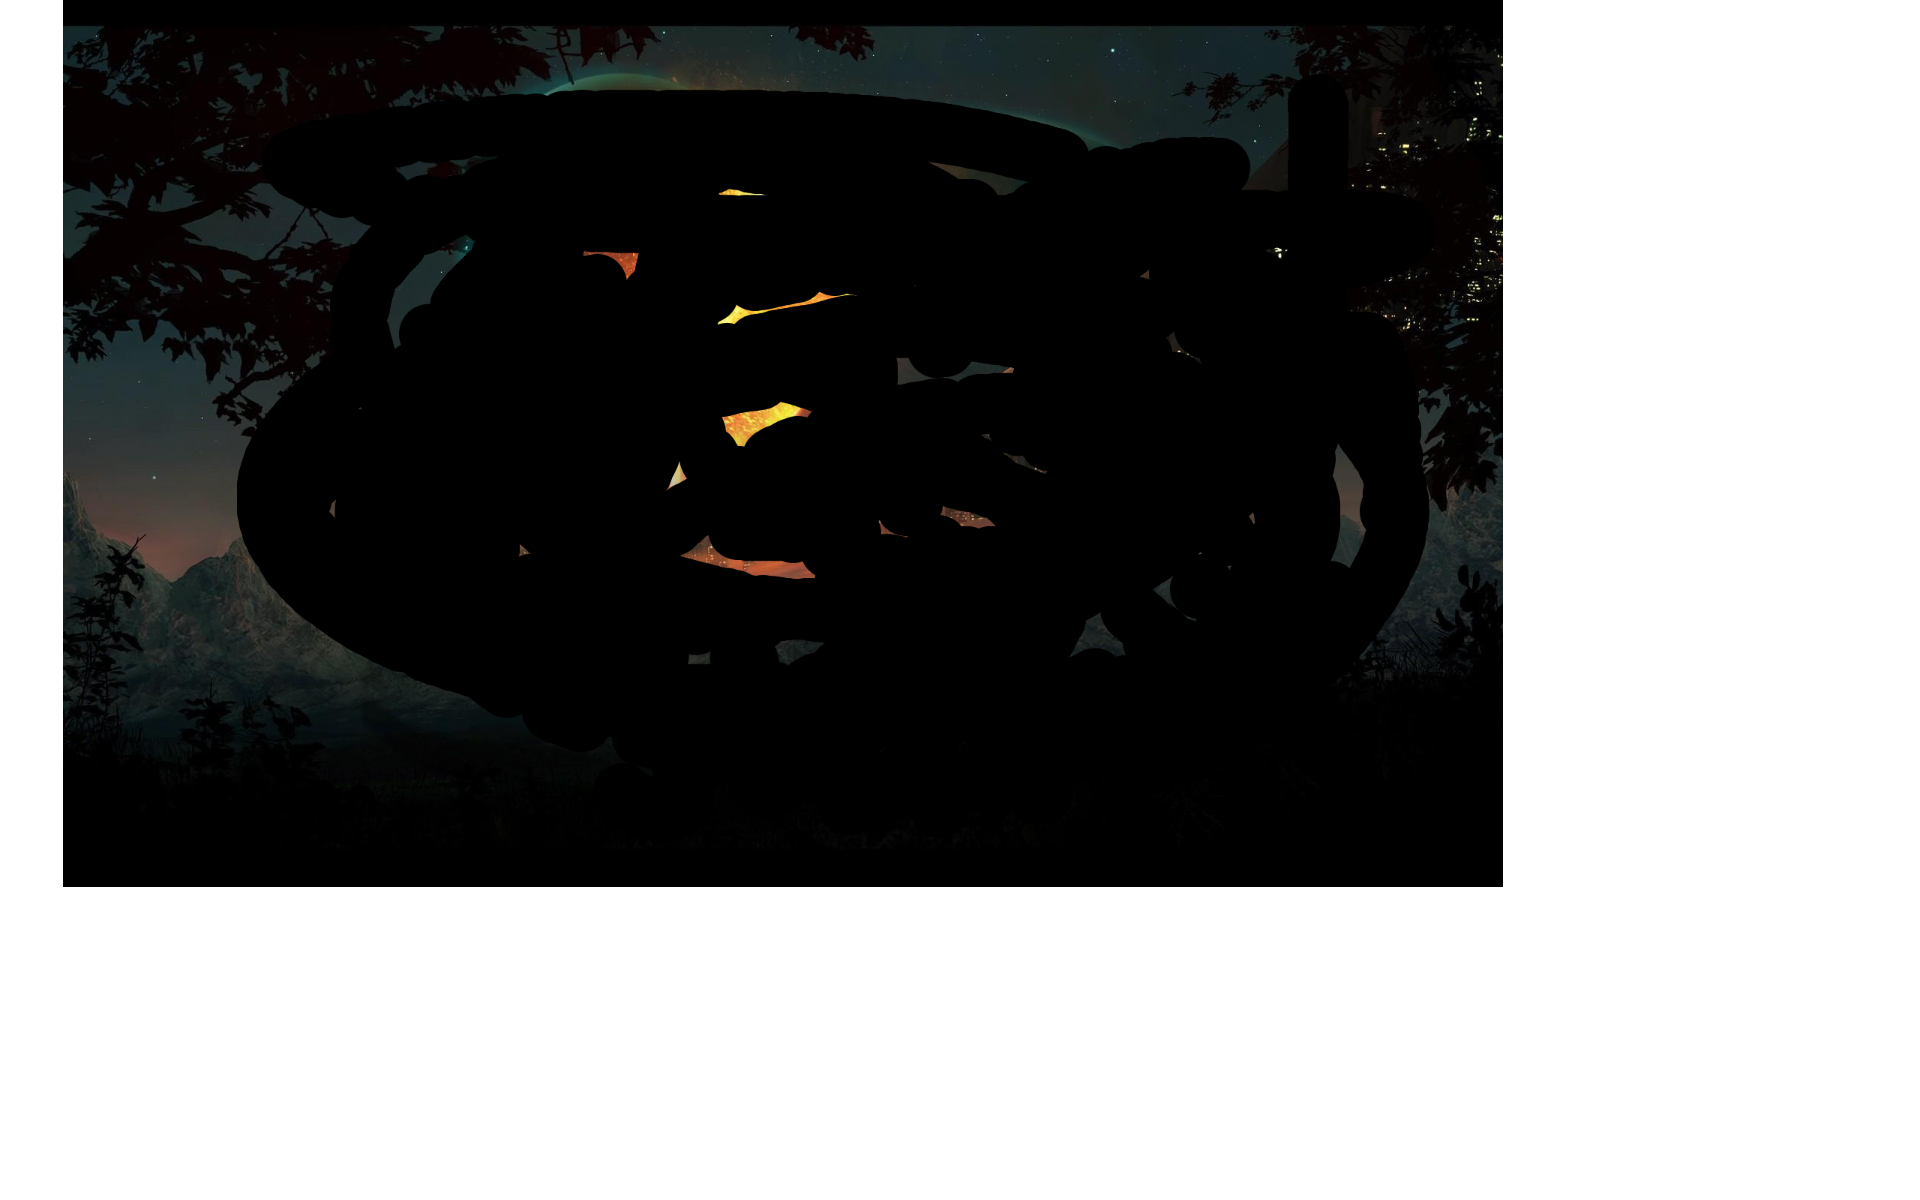
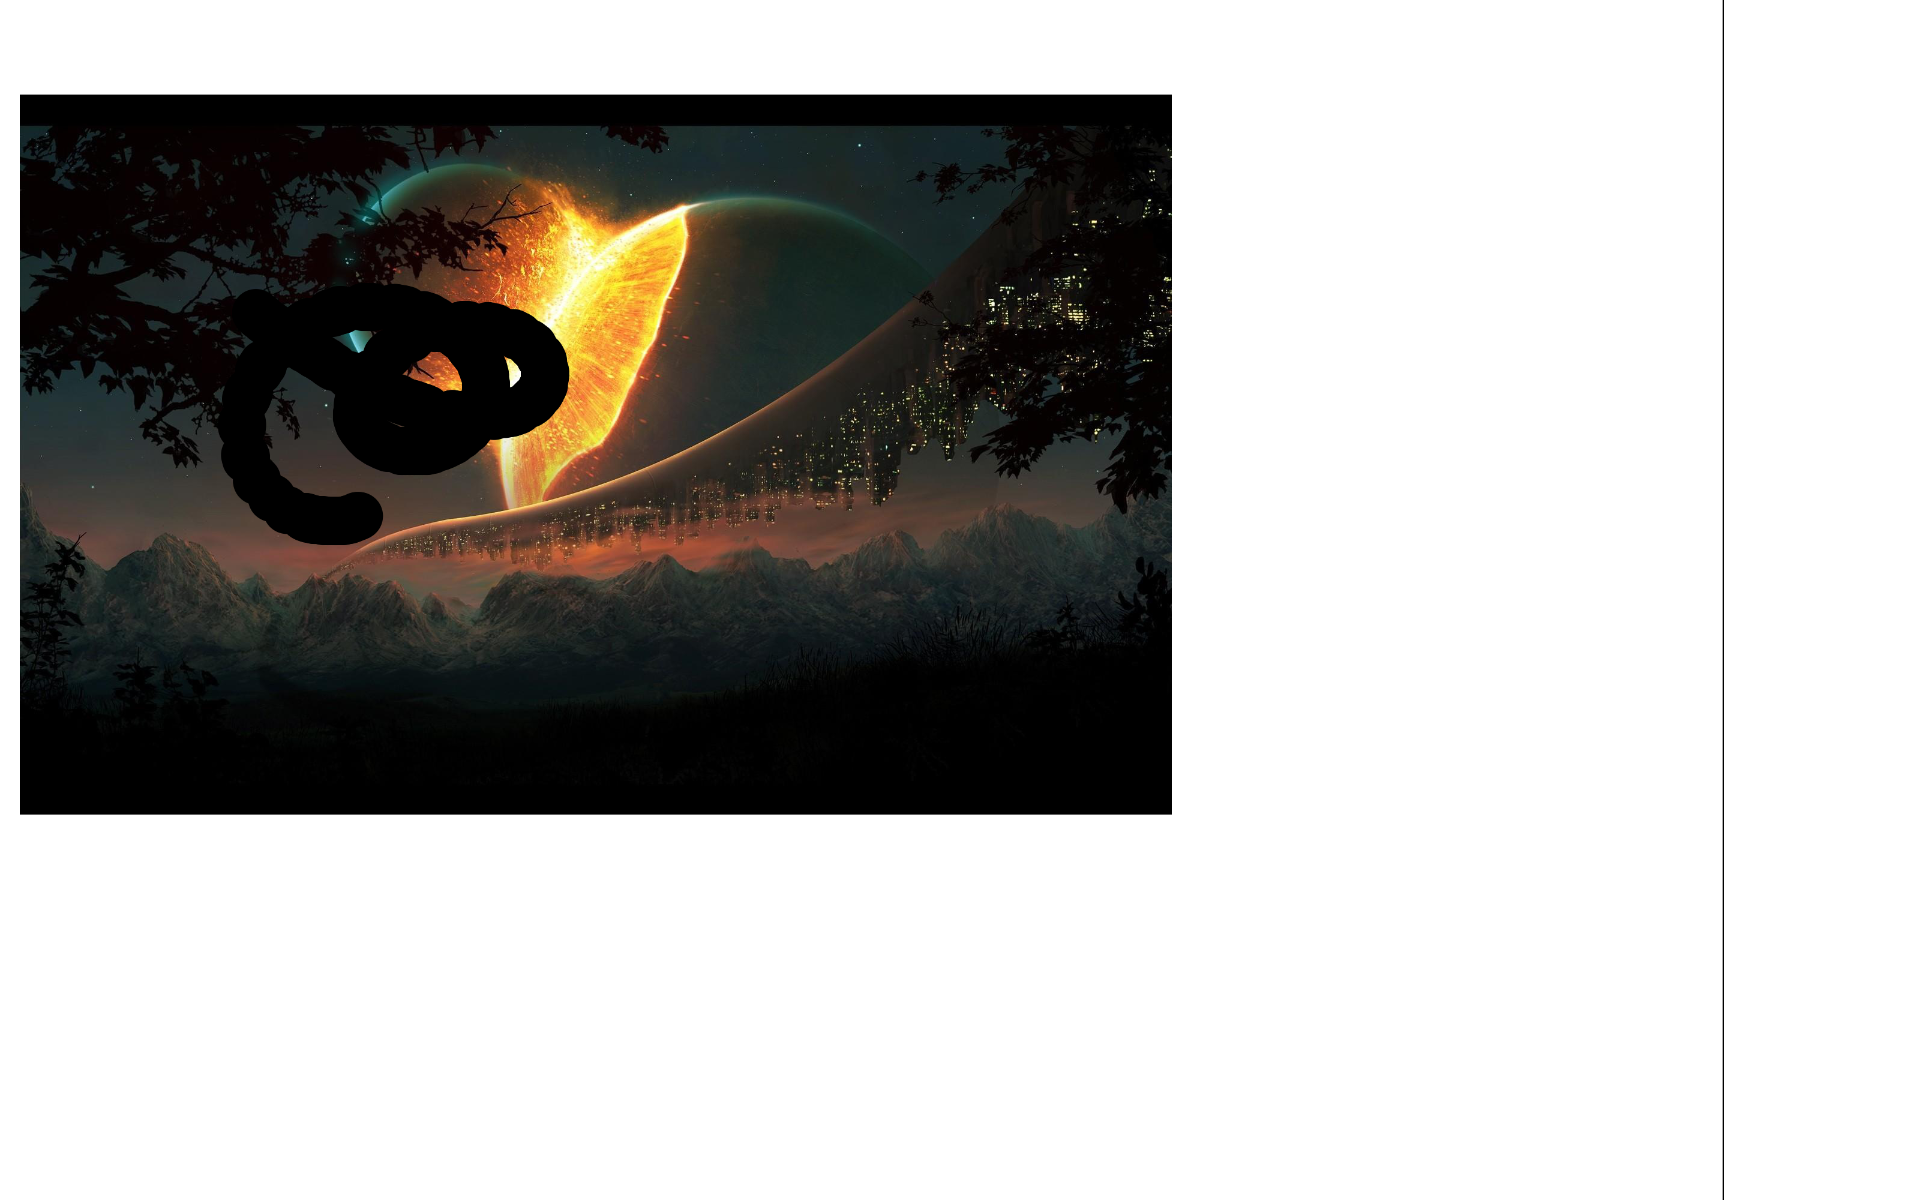
Changed Saving bounds

diff --git a/src/run/Main.java b/src/run/Main.java
@@ -417,7 +417,7 @@ public class Main extends Application {
     private void saveImage(Canvas canvas){
         WritableImage bounds = new WritableImage((int)imgWidth, (int)imgHeight);
         SnapshotParameters sp = new SnapshotParameters();
-        sp.setViewport(new Rectangle2D(0, 0, imgWidth, imgHeight));
+        sp.setViewport(new Rectangle2D(0 + 40, 0 + 80, imgWidth, imgHeight)); // hard-coded values 40 & 80 for x and y respectivly
         WritableImage snapshot = canvas.snapshot(sp, bounds);
         try{
             ImageIO.write(SwingFXUtils.fromFXImage(snapshot, null), "png", new File(System.getProperty("user.dir") + "\\test.png"));
